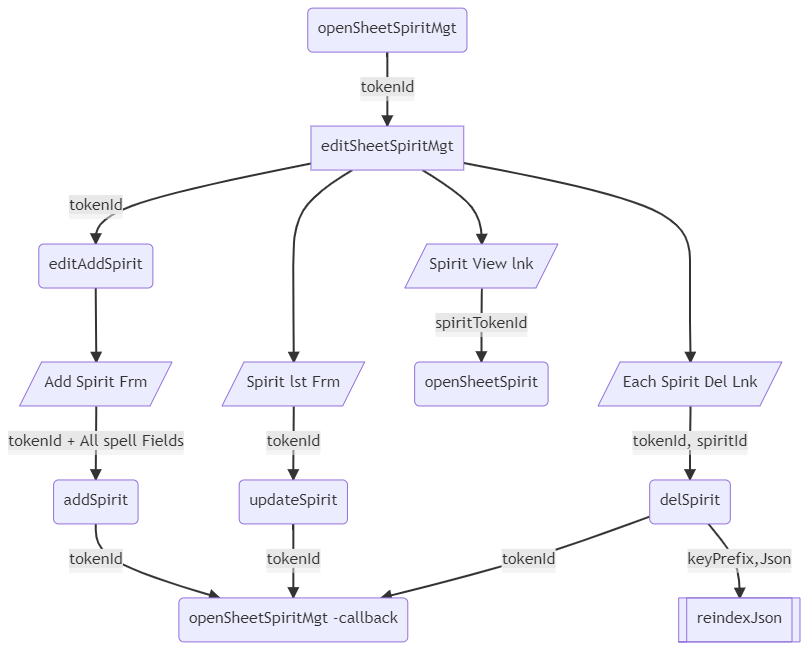
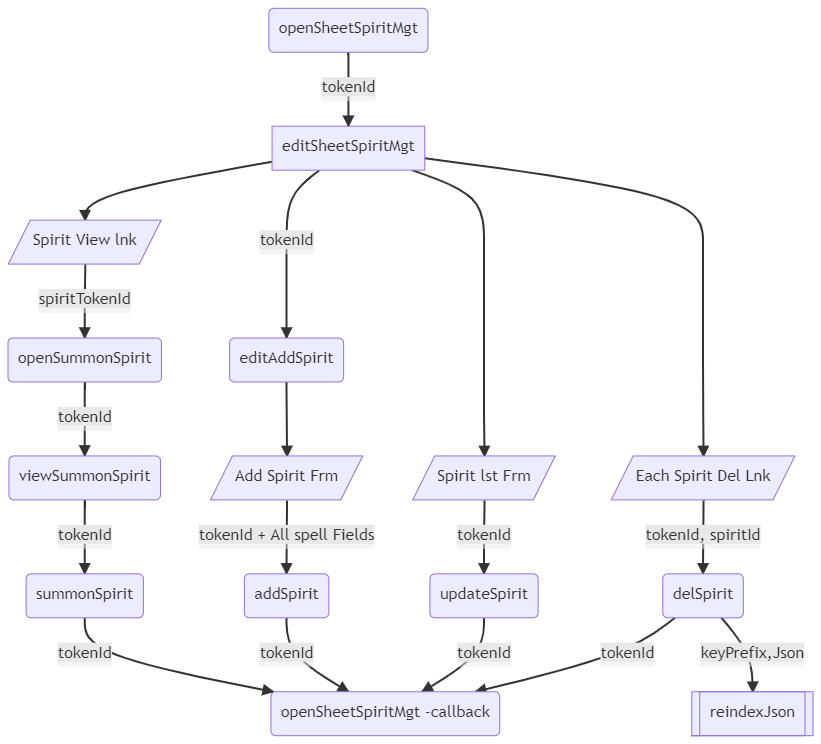
Spirit Management first stable version

diff --git a/libRQII/sheetSpiritMgt/README.md b/libRQII/sheetSpiritMgt/README.md
@@ -35,27 +35,30 @@ Display - On the Edit Sheet
 
 Display - on the Viewing Sheet
    - the player click on the spirit name, it open another window with the spirit sheet
-   - The spirit sheet display a summon button & a field to re-name the invocated spirit
+   - The spirit sheet display a summon button, the spirit is summoned using its baseName (cf #25)
    - This button will copy an instance of the spirit from the _Spirit_Lib map to the current sheet, next to the token.
+     - It serch the map using the baseName so they must be unique on this Map
 
 ```
-Logic - Mermaid Diagram
 graph TD
     A(openSheetSpiritMgt) -->|tokenId| B[editSheetSpiritMgt]
 	B --> |tokenId| C1(editAddSpirit)
     B --> C2[/Spirit lst Frm/] 
-	B --> C3[/Each Spirit Del Lnk/] 
 	B --> C4[/Spirit View lnk/]
+    B --> C3[/Each Spirit Del Lnk/] 
     C2 --> |tokenId| D2(updateSpirit) 
     C3 --> |tokenId, spiritId| D3(delSpirit)
-	D3 --> |keyPrefix,Json| E4[[reindexJson]]
-	C4 -->|spiritTokenId|D4(openSheetSpirit)
+	D3 --> |keyPrefix,Json| E3[[reindexJson]]
+	C4 -->|spiritTokenId|D4(openSummonSpirit)
     C1 --> E2[/Add Spirit Frm/]
+    D4 --> |tokenId| E4(viewSummonSpirit)
     D3 --> |tokenId| Z
 	D2 --> |tokenId| Z
     E2 --> |tokenId + All spell Fields| F1(addSpirit)
     F1 --> |tokenId| Z
+    E4 --> |tokenId| F4(summonSpirit)
+    F4 --> |tokenId| Z
     Z(openSheetSpiritMgt -callback)
 ```
 
-![spirit Mgt flow](../../assets/doc/spellManagementFlow.png?raw=true)
+![spirit Mgt flow](../../assets/doc/spiritMgtFlow.png?raw=true)
